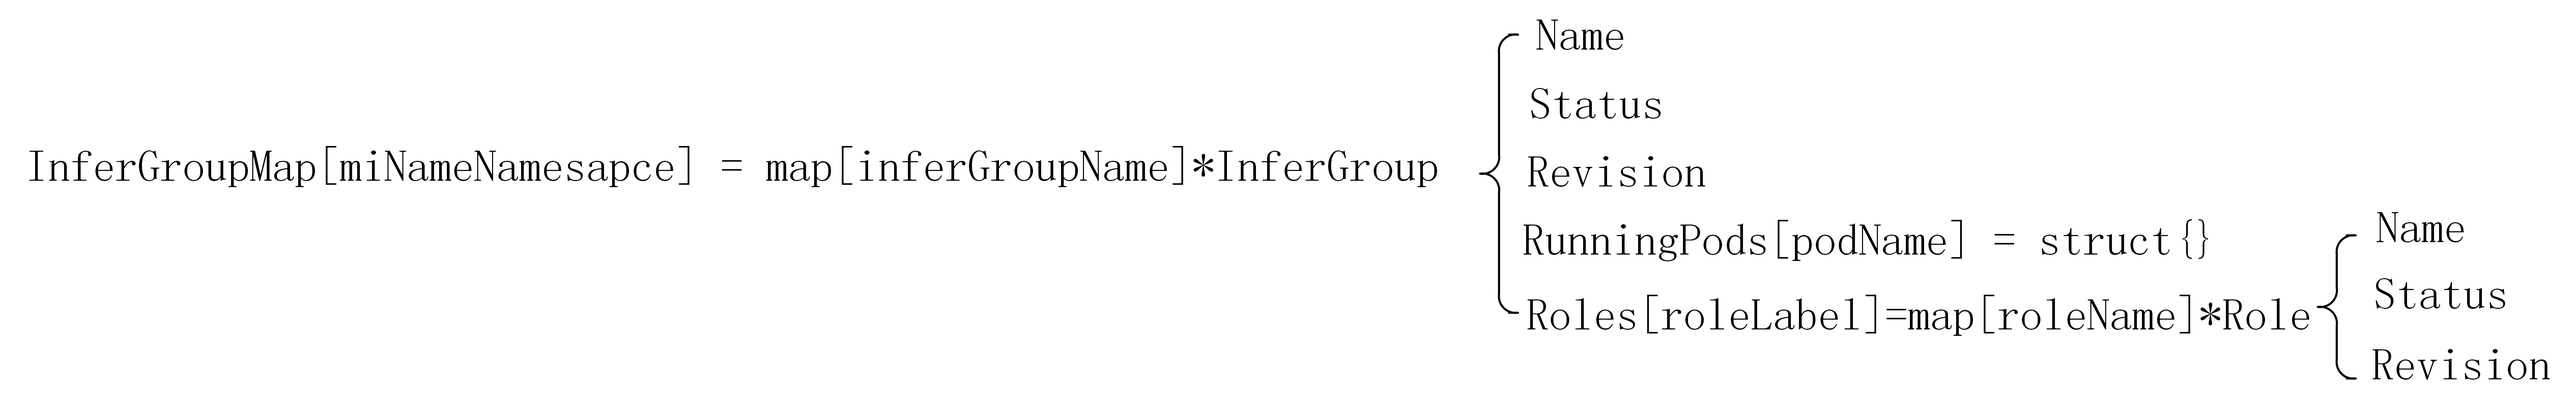
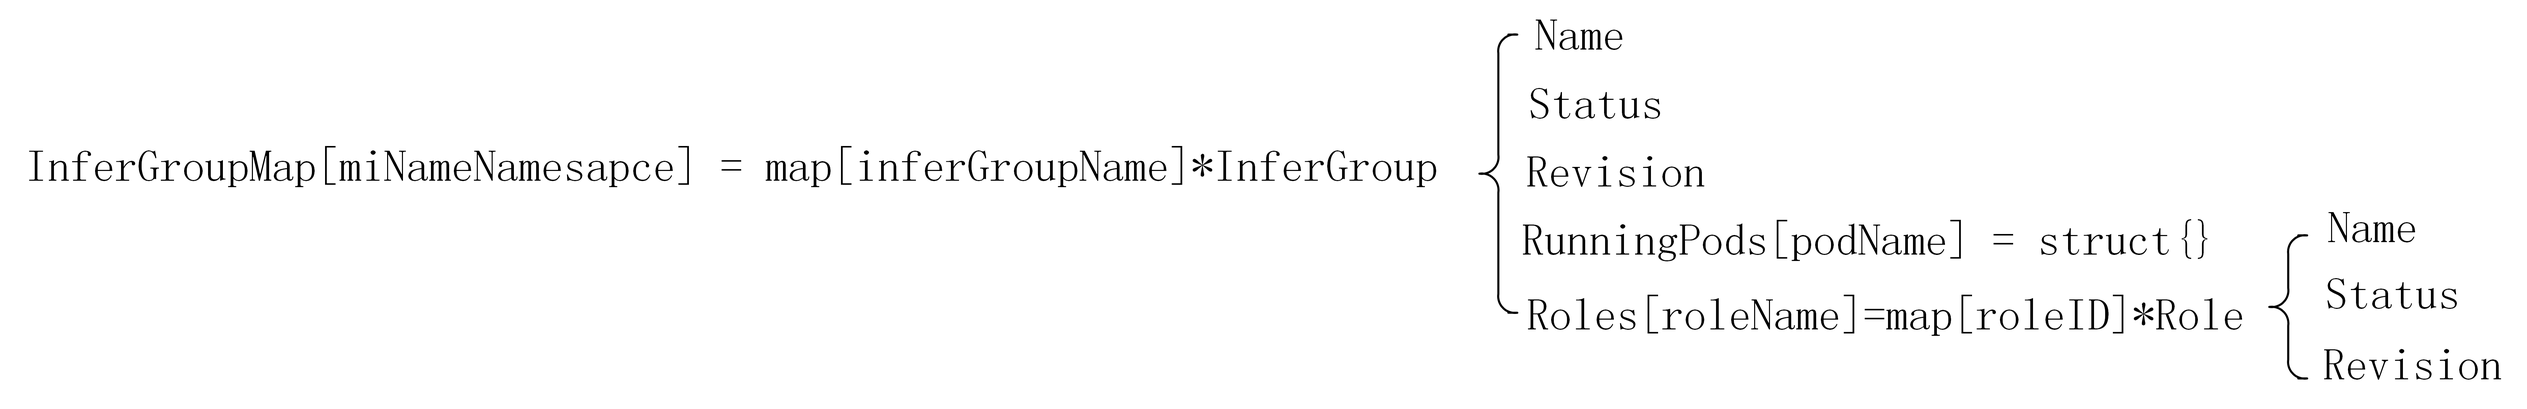
update

diff --git a/docs/proposal/modelinfer-support-role-scaling.md b/docs/proposal/modelinfer-support-role-scaling.md
@@ -38,7 +38,7 @@ type InferGroup struct {
     runningPods map[string]struct{} // Map of pod names in this infer group
     Revision    string
     Status      InferGroupStatus
-    roles       map[string]map[string]*Role // roleSpecName -> roleInstanceName -> *Role, like prefill -> prefill0 -> *Role
+    roles       map[string]map[string]*Role // roleName -> roleID -> *Role, like prefill -> prefill-0 -> *Role
 }
 
 type Role struct {
